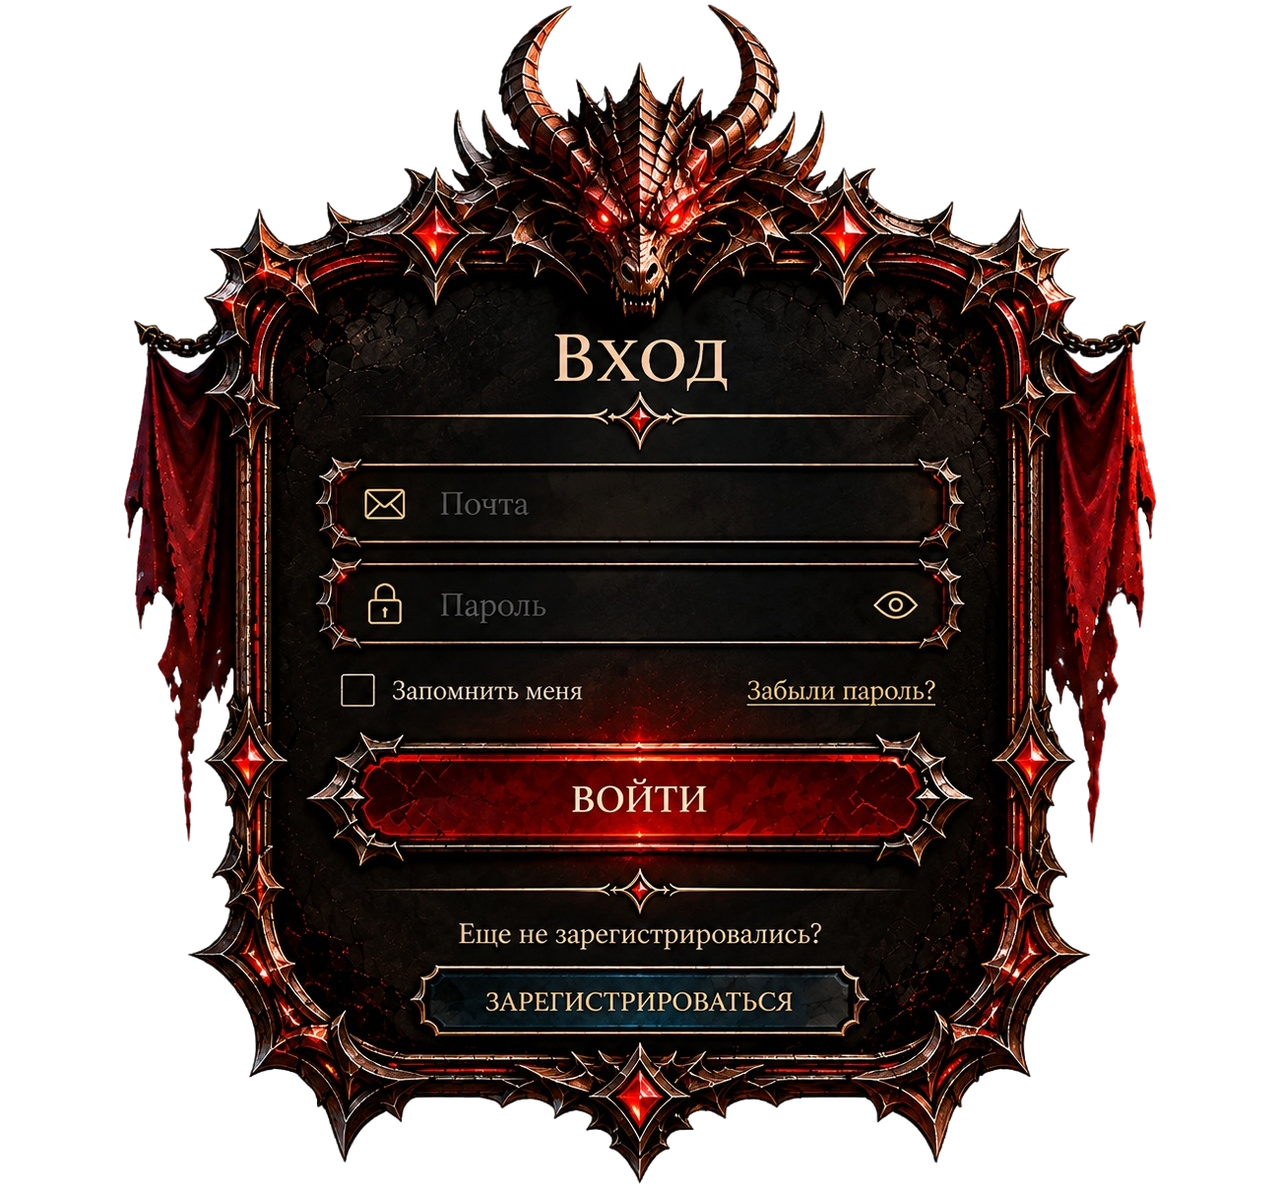
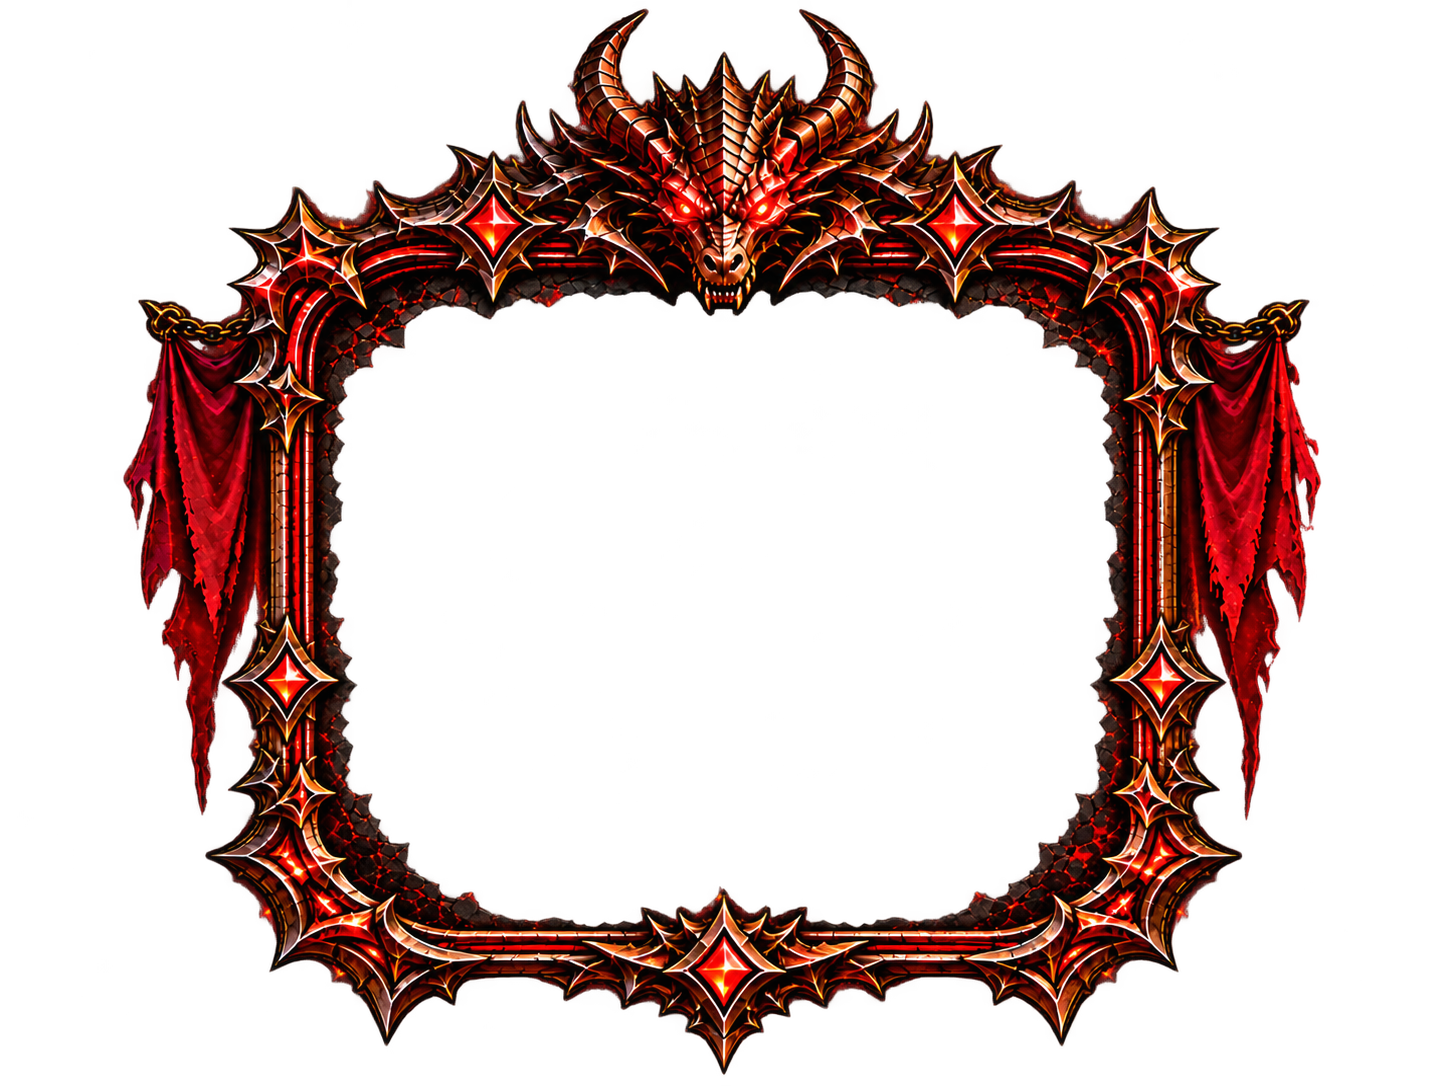
fix: layer authentication artwork correctly

diff --git a/frontend/src/index.css b/frontend/src/index.css
@@ -34,7 +34,7 @@ button, a { -webkit-tap-highlight-color: transparent; }
     display: grid;
     place-items: center;
     overflow: hidden;
-    padding: 2rem 1rem;
+    padding: .5rem 1rem;
     background: #110b09 url("/assets/auth/tenebres-auth-background.png") center / cover fixed no-repeat;
 }
 
@@ -365,8 +365,8 @@ button, a { -webkit-tap-highlight-color: transparent; }
 /* The supplied artwork is the real frame. The opaque surface only replaces the
    baked-in sample labels, leaving the dragon, metal and banners untouched. */
 .auth-card--ornate {
-    width: min(94vw, 46rem, calc(100svh * 1.03));
-    aspect-ratio: 1280 / 1190;
+    width: min(96vw, 57rem, calc(100svh * 1.27));
+    aspect-ratio: 1448 / 1086;
     padding: 0;
     background: transparent;
     border: 0;
@@ -381,7 +381,7 @@ button, a { -webkit-tap-highlight-color: transparent; }
 .auth-card__frame {
     position: absolute;
     inset: 0;
-    z-index: 1;
+    z-index: 3;
     width: 100%;
     height: 100%;
     object-fit: contain;
@@ -390,17 +390,36 @@ button, a { -webkit-tap-highlight-color: transparent; }
     filter: drop-shadow(0 1.7rem 2.1rem rgba(0, 0, 0, .76));
 }
 
+.auth-card__panel {
+    position: absolute;
+    inset: 20% 18% 7%;
+    z-index: 1;
+    width: 64%;
+    height: 73%;
+    object-fit: contain;
+    pointer-events: none;
+    user-select: none;
+}
+
+.auth-card__panel--register {
+    background:
+        radial-gradient(ellipse at 50% 42%, rgba(34, 21, 16, .18), rgba(5, 5, 5, .48) 74%),
+        url("/assets/auth/auth-inner-panel.png") center bottom / 112% 205% no-repeat,
+        #080807;
+    filter: drop-shadow(0 0 1rem #080807);
+}
+
 .auth-card__surface {
     position: absolute;
-    z-index: 2;
-    inset: 25.5% 24% 10.5%;
+    z-index: 4;
+    inset: 22% 26% 5%;
     display: flex;
     flex-direction: column;
     justify-content: center;
     padding: .15rem .25rem;
     background:
         radial-gradient(ellipse at 50% 35%, rgba(28, 18, 14, .98), rgba(8, 8, 7, .995) 72%);
-    box-shadow: 0 0 1.5rem 1.15rem rgba(8, 8, 7, .99);
+    box-shadow: 0 0 1.2rem .8rem rgba(8, 8, 7, .96);
 }
 
 .auth-card--ornate .auth-card__eyebrow,
@@ -423,23 +442,44 @@ button, a { -webkit-tap-highlight-color: transparent; }
 .auth-card--ornate .auth-hint { font-size: .66rem; }
 
 .auth-card--login .auth-card__surface {
-    inset: 17% 12% 3%;
+    inset: 27% 27% 7%;
     justify-content: flex-start;
-    padding: 27% 12% 4%;
-    background:
-        url("/assets/auth/auth-inner-panel.png") center / 100% 100% no-repeat,
-        linear-gradient(#080807 0 0) center / 76% 88% no-repeat;
+    padding: 15% 0 0;
+    background: transparent;
     box-shadow: none;
 }
 
 .auth-card--login .auth-card__header { display: none; }
 
+.auth-card--login .auth-form { gap: .32rem; }
+.auth-card--login .auth-field { min-height: 2.8rem; }
+.auth-card--login .auth-field input { height: 2.7rem; }
+.auth-card--login .auth-submit { min-height: 3.15rem; }
+.auth-card--login .auth-options { font-size: .76rem; }
+
 .auth-card--register .auth-card__surface {
-    background:
-        linear-gradient(rgba(7, 7, 6, .2), rgba(7, 7, 6, .52)),
-        url("/assets/auth/auth-inner-panel.png") center bottom / 112% 170% no-repeat,
-        #080807;
+    inset: 25% 26% 7%;
+    padding: 0;
+    background: transparent;
+    box-shadow: none;
 }
+
+.auth-card--register .auth-card__header h1 {
+    margin-bottom: .15rem;
+    font-size: 2.55rem;
+}
+.auth-card--register .auth-divider { margin-bottom: .35rem; }
+.auth-card--register .auth-form { gap: .28rem; }
+.auth-card--register .auth-field { min-height: 2.7rem; }
+.auth-card--register .auth-field input { height: 2.6rem; }
+.auth-card--register .auth-submit { min-height: 3rem; }
+.auth-card--register .auth-card__footer {
+    margin-top: .25rem;
+    padding-top: .25rem;
+    gap: .35rem;
+    transform: translateY(-.35rem);
+}
+.auth-card--register .auth-secondary--red { min-height: 2.2rem; }
 
 .auth-card--ornate .auth-field {
     min-height: 3.45rem;
@@ -486,12 +526,23 @@ button, a { -webkit-tap-highlight-color: transparent; }
 }
 
 .auth-card--login .auth-card__footer {
-    margin-top: .4rem;
-    padding-top: .45rem;
+    grid-template-columns: auto 1fr;
+    align-items: center;
+    margin-top: .18rem;
+    padding-top: .2rem;
+    gap: .25rem;
     border-top: 0;
+    transform: translateY(-.8rem);
 }
 
-.auth-card--login .auth-secondary { min-height: 3.35rem; display: grid; place-items: center; }
+.auth-card--login .auth-secondary {
+    min-width: 10.5rem;
+    min-height: 2.55rem;
+    display: grid;
+    place-items: center;
+    padding: .2rem .65rem;
+    font-size: .78rem;
+}
 .auth-card--ornate .auth-secondary--red {
     min-width: 9rem;
     min-height: 2.4rem;
@@ -507,10 +558,11 @@ button, a { -webkit-tap-highlight-color: transparent; }
 @media (max-width: 600px) {
     .auth-scene { padding: .75rem .2rem; }
     .auth-card--ornate {
-        width: min(103vw, calc(100svh * .93));
-        min-width: 24rem;
+        width: min(112vw, calc(100svh * 1.2));
+        min-width: 26rem;
     }
-    .auth-card__surface { inset: 25% 23.5% 9.5%; padding: 0; }
+    .auth-card__panel { inset: 20% 17% 6%; width: 66%; height: 74%; }
+    .auth-card__surface { inset: 22% 25% 4%; padding: 3% 0; }
     .auth-card--ornate .auth-card__header h1 { font-size: 1.9rem; }
     .auth-card--ornate .auth-divider { margin-bottom: .55rem; }
     .auth-card--ornate .auth-form { gap: .42rem; }
@@ -524,7 +576,7 @@ button, a { -webkit-tap-highlight-color: transparent; }
     .auth-card--ornate .auth-card__footer { margin-top: .45rem; padding-top: .45rem; font-size: .82rem; }
     .auth-card--ornate .auth-secondary { min-width: 9.5rem; padding: .35rem .7rem; font-size: .8rem; }
     .auth-card--ornate .auth-hint { display: none; }
-    .auth-card--login .auth-card__surface { inset: 17% 11% 3%; padding: 27% 12% 4%; }
+    .auth-card--login .auth-card__surface { inset: 27% 26% 6%; padding: 15% 0 0; }
     .auth-card--ornate .auth-field { min-height: 3rem; padding: 0 .8rem; }
     .auth-card--ornate .auth-submit { min-height: 3.35rem; }
 }

diff --git a/frontend/src/components/auth/AuthShell.tsx b/frontend/src/components/auth/AuthShell.tsx
@@ -27,6 +27,17 @@ export default function AuthShell({
                     alt=""
                     aria-hidden="true"
                 />
+                {variant === "login" && (
+                    <img
+                        className="auth-card__panel"
+                        src="/assets/auth/auth-inner-panel.png"
+                        alt=""
+                        aria-hidden="true"
+                    />
+                )}
+                {variant === "register" && (
+                    <div className="auth-card__panel auth-card__panel--register" aria-hidden="true" />
+                )}
                 <div className="auth-card__surface">
                     <header className="auth-card__header">
                         <span className="auth-card__eyebrow">{eyebrow}</span>
